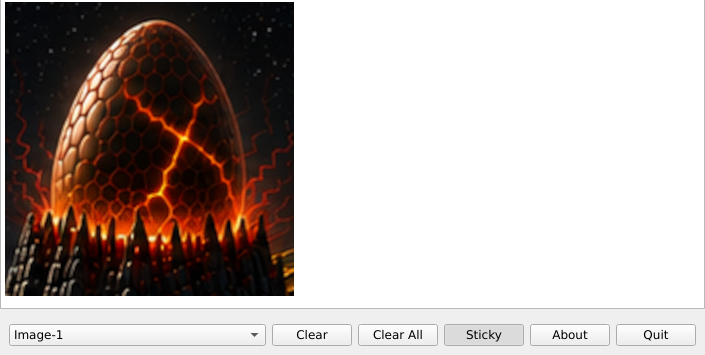
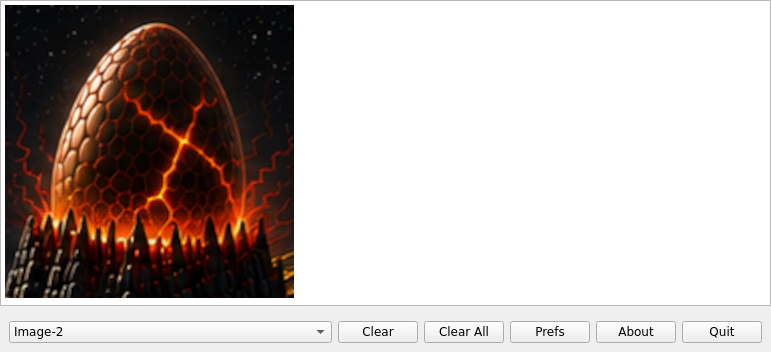
updated readme ...

diff --git a/README.md b/README.md
@@ -4,11 +4,14 @@ A QT based clipboard viewer and clipboard history.
 ![Main Window](screenshots/image.png "Main Window")  
   
 ![Main Window](screenshots/image2.png "Main Window")  
+
+![Main Window](screenshots/image3.png "Prefs Window")  
+
   \
 Every time you copy text or an image it will be added to the app.  
 To retrieve a previous clip just select from the dropdown and the text or image will be recopied to the clipboad, then just paste as normal.  
 Copying an image file now adds the image then the file uri.  
-Toggling the 'Sticky' button will show the window on all desktops or not.  
+Prefs, Sticky, On Top are self explanatory, if Save History is selected, on exit clips are saved and reloaded on restart.
 Clear clears the current item.  
 Clear All clears all history.  
   \
